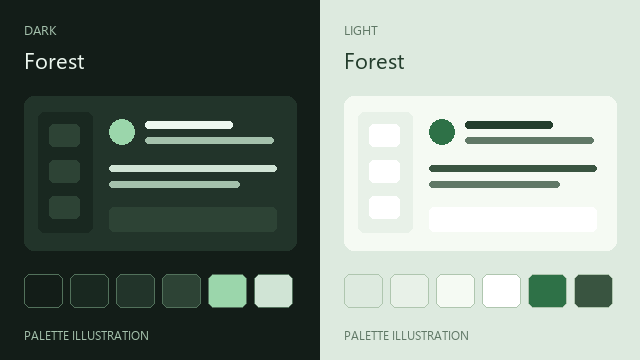
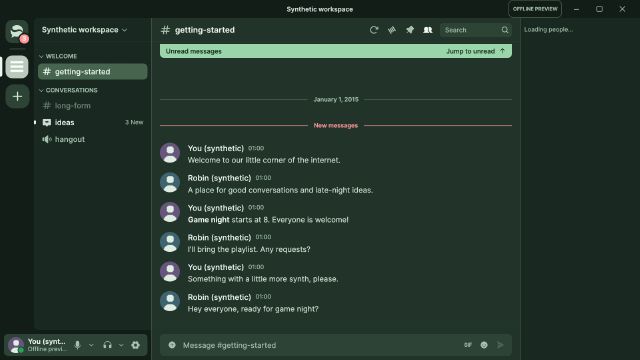
fix(previews): show rendered synthetic workspace

diff --git a/previews/README.md b/previews/README.md
@@ -5,12 +5,22 @@ Every current package has a hash-pinned PNG preview under 256 KiB.
 - `ocean.png` is the original synthetic native Ocean-theme screenshot.
 - `forest-piano.png` and `soft-white.png` are 640x360 downscaled copies of their
   packaged covers, retaining the artwork's existing package provenance and terms.
-- Other theme previews are labeled palette illustrations drawn from each package's
-  exact dark/light colors; BlackTheme defines only a dark palette. These are not
-  application screenshots and do not represent every spacing or typography setting.
-- Plugin previews are labeled feature illustrations, not screenshots or live
-  interoperability evidence.
+- Other theme previews render Serein's synthetic workspace with the corresponding
+  packaged theme applied in dark mode, including its spacing and typography.
+- Plugin previews render the synthetic workspace with a preserved deleted message
+  or the sticker picker and sample artwork. No live account or Discord traffic is used.
 
-Illustrations added here use the repository's MIT OR Apache-2.0 license. Package
+These ten previews were rendered by Serein's existing `profile_preview` example at
+`ddbed3c456167e827d088aeac3ae74db46c07744`, using a 1280x720 window and its built-in
+640x360 thumbnail export. They are captures of the actual egui framebuffer, not
+drawn mockups, OS window-capture evidence, or proof of live interoperability.
+
+Reproduce from that Serein revision, replacing `ID` with the package's manifest ID:
+
+```sh
+cargo run --locked -p serein --features demo --example profile_preview -- --demo --extension=ID --width=1280 --height=720 --thumbnail --output=preview.png
+```
+
+Synthetic UI previews use the repository's MIT OR Apache-2.0 license. Package
 bytes are unchanged. To replace a preview, commit its PNG and regenerate the catalog
 as described in the root README so its URL, SHA-256, and byte count stay pinned.

diff --git a/README.md b/README.md
@@ -16,7 +16,7 @@ Catalog tooling uses Python's standard library and checks identities, capabiliti
 It intentionally does not duplicate Serein's complete theme schema or Wasm sandbox validation. The client performs canonical `extensions::parse_package` validation and sandbox checks before installation.
 For a new package version, validate it with that parser and review its source and build before publishing.
 
-PNG previews in `previews/` share the package filename stem and must fit 256 KiB. All current packages have previews: Ocean retains its original screenshot, Forest Piano and Soft White use downscaled package covers, and the other themes/plugins use labeled palette/feature illustrations. Full-size covers remain embedded in their packages.
+PNG previews in `previews/` share the package filename stem and must fit 256 KiB. All current packages have previews: Ocean retains its original screenshot, Forest Piano and Soft White use downscaled package covers, and the other themes/plugins use rendered previews of the client's synthetic workspace. Full-size covers remain embedded in their packages.
 
 ## Imported plugin build evidence
 
